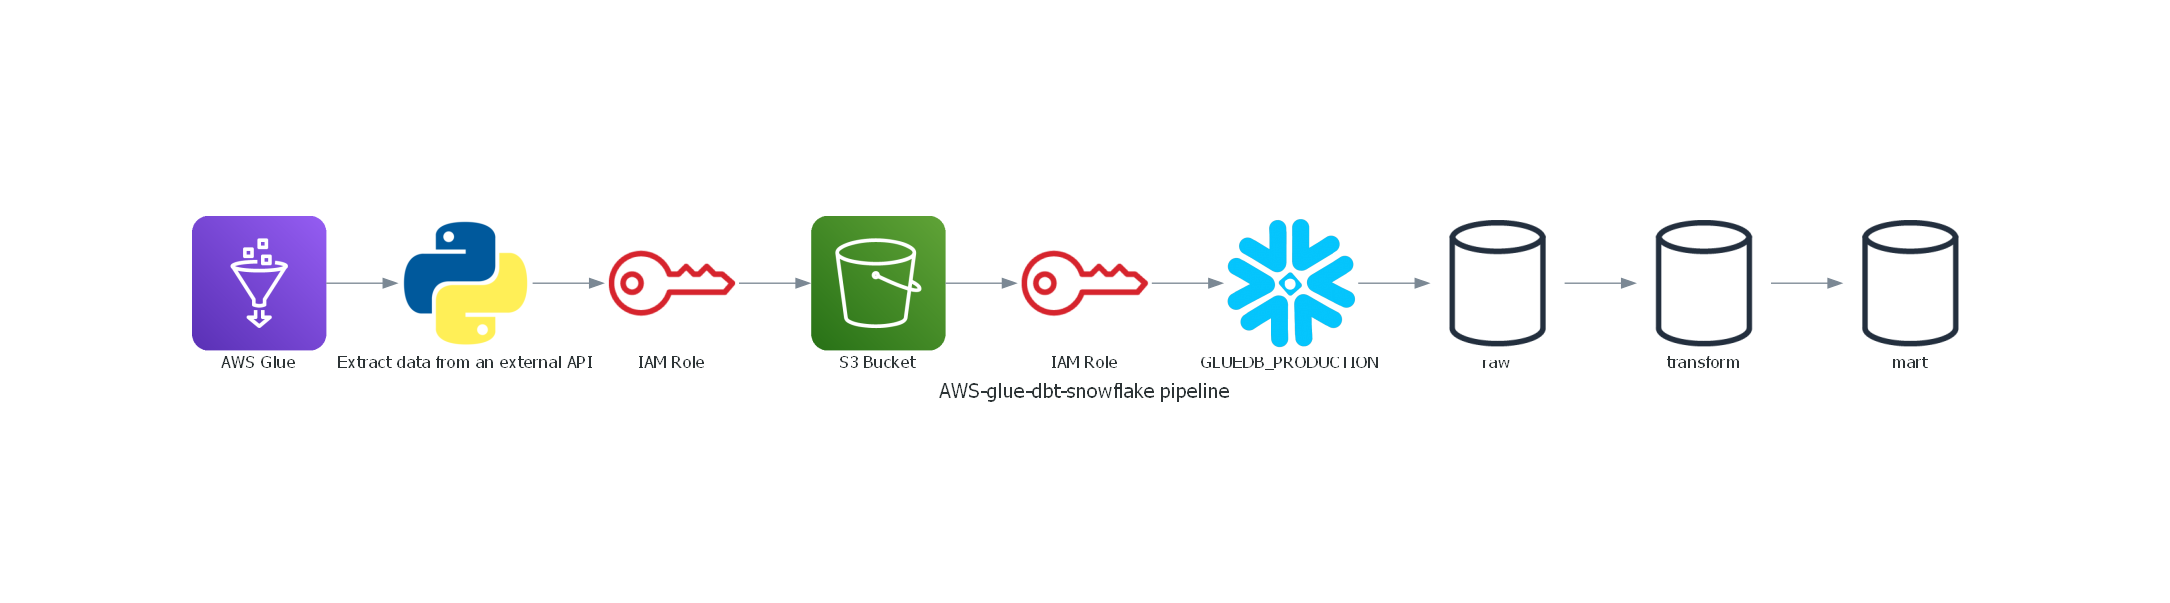
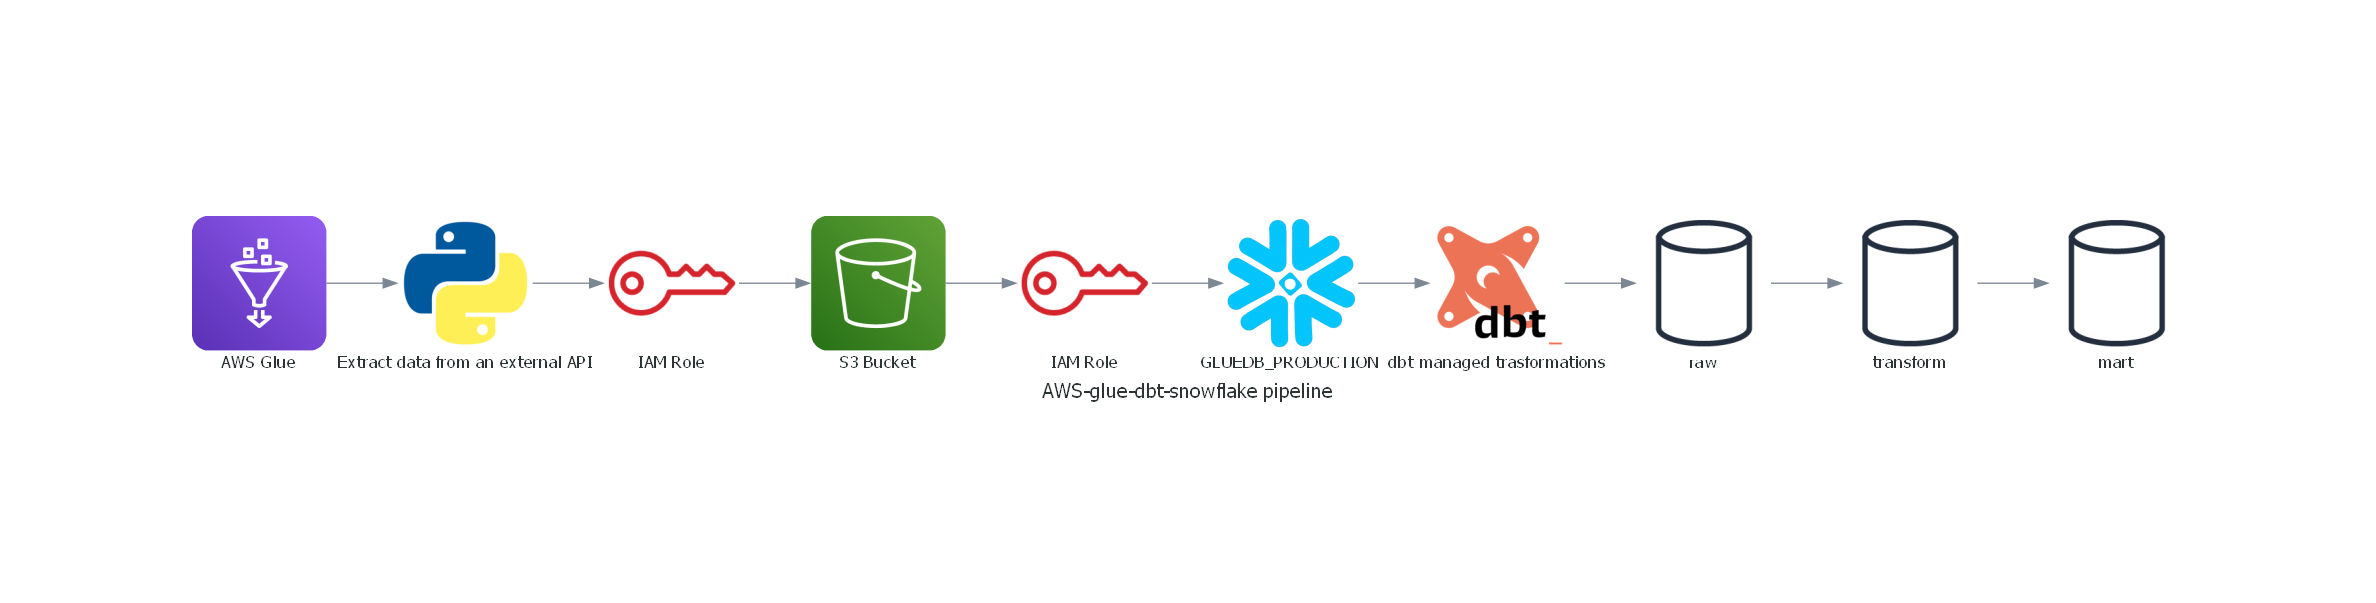
updated diagrams

Changed region(s): [[0.0618, 0.3582, 0.9263, 0.6866]]

diff --git a/src/DiagramGenerator/architecture.py b/src/DiagramGenerator/architecture.py
@@ -7,6 +7,7 @@ from diagrams.aws.storage import S3
 from diagrams.saas.analytics import Snowflake
 from diagrams.aws.security import IdentityAndAccessManagementIamAddOn
 from diagrams.aws.general import GenericDatabase
+from diagrams.onprem.analytics import Dbt
 
 
 
@@ -23,6 +24,7 @@ with Diagram("AWS-glue-dbt-snowflake pipeline", show=False, filename="diagrams/a
     s3 = S3("S3 Bucket")
     # s3error = S3("Error Logs")
     snowflake = Snowflake("GLUEDB_PRODUCTION")
+    dbt = Dbt("dbt managed trasformations")
 
-    glue >> python >> iam >> s3 >> iam2 >> snowflake >> raw >> transform >> mart
+    glue >> python >> iam >> s3 >> iam2 >> snowflake >> dbt >> raw >> transform >> mart
     
